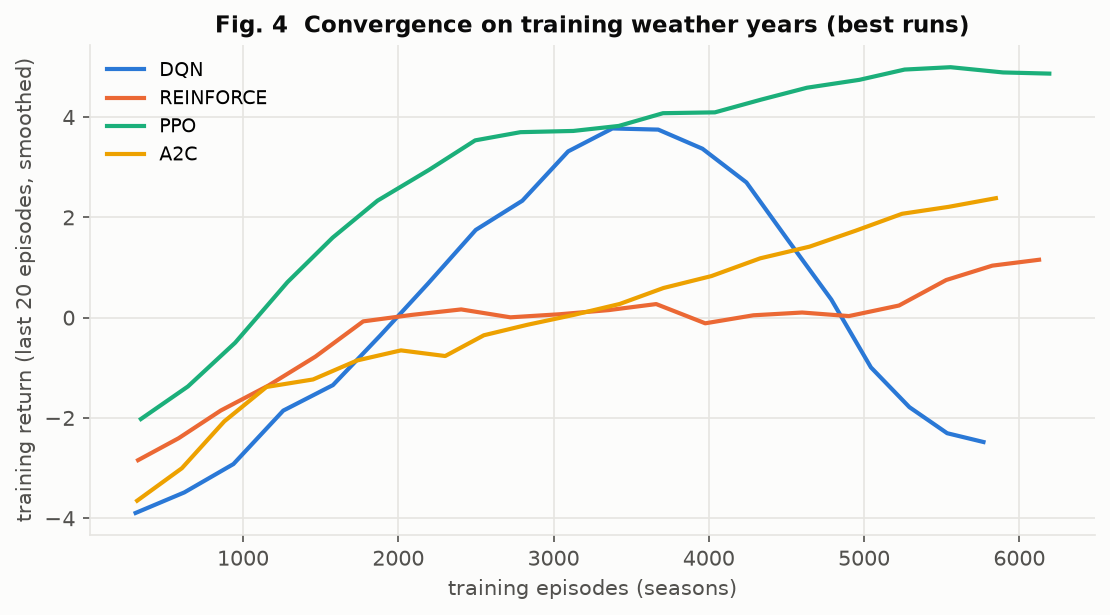
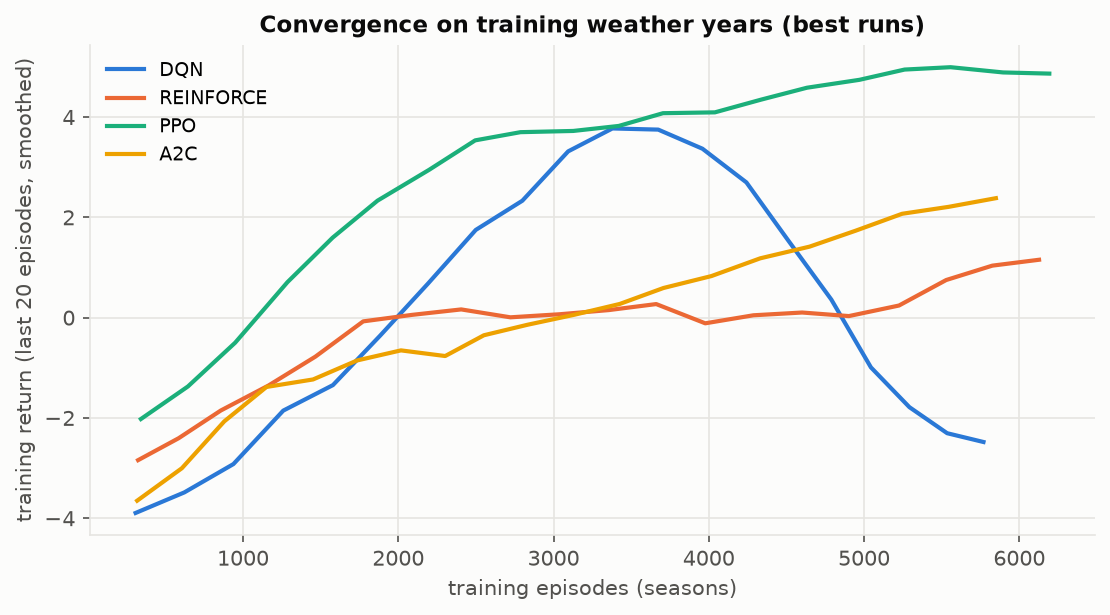
Remove figure-number prefixes from plot titles for the report

Changed region(s): [[0.1838, 0.0, 0.8883, 0.0618]]

diff --git a/analysis/plots.py b/analysis/plots.py
@@ -108,7 +108,7 @@ def fig_comparative():
             ax.axhline(v, color=MUTED, ls=ls, lw=1.2)
             ax.text(ax.get_xlim()[0], v, f" {name.replace('_', ' ')}", color=INK2, fontsize=8, va="bottom")
     ax.set(xlabel="training frames (thousands)", ylabel="validation return (greedy, 20 unseen seasons)",
-           title="Fig. 1  Validation return during training (best run per algorithm)")
+           title="Validation return during training (best run per algorithm)")
     ax.legend(loc="lower right", fontsize=8)
     ax.text(0.99, 0.30, "●  checkpoint kept (best validation)\nbaselines: dashed/dotted, test seasons",
             transform=ax.transAxes, ha="right", fontsize=8, color=INK2)
@@ -135,7 +135,7 @@ def fig_dqn_loss():
     a1.set(xlabel="frames (thousands)", ylabel="mean TD loss", title="DQN objective (TD loss)", yscale="log")
     a2.set(xlabel="frames (thousands)", ylabel="mean max-Q of sampled batch (log)", title="DQN value estimates", yscale="log")
     a1.legend(fontsize=8)
-    fig.suptitle("Fig. 2  DQN loss and Q-values across all 10 runs (grey) - best run highlighted", fontsize=10, color=INK)
+    fig.suptitle("DQN loss and Q-values across all 10 runs (grey) - best run highlighted", fontsize=10, color=INK)
     save(fig, "fig2_dqn_loss.png")
 
 
@@ -154,7 +154,7 @@ def fig_entropy():
         ax.set(title=NAMES[a], xlabel="frames (thousands)")
         ax.legend(fontsize=8, loc="lower left")
     axes[0].set_ylabel("policy entropy (nats)")
-    fig.suptitle("Fig. 3  Policy entropy during training - all runs (grey), best highlighted", fontsize=10, color=INK)
+    fig.suptitle("Policy entropy during training - all runs (grey), best highlighted", fontsize=10, color=INK)
     save(fig, "fig3_pg_entropy.png")
 
 
@@ -167,7 +167,7 @@ def fig_convergence():
         r = runs(a)[b]
         ax.plot(col(r, "episodes"), smooth(col(r, "train_return"), 5), color=COLORS[a], label=NAMES[a])
     ax.set(xlabel="training episodes (seasons)", ylabel="training return (last 20 episodes, smoothed)",
-           title="Fig. 4  Convergence on training weather years (best runs)")
+           title="Convergence on training weather years (best runs)")
     ax.legend(fontsize=9)
     save(fig, "fig4_convergence.png")
 
@@ -196,7 +196,7 @@ def fig_generalization():
               loc="lower left", fontsize=8)
     ax.set_xticks(x, [NAMES.get(p, p.replace("_", "\n")) for p in pols], fontsize=9)
     ax.set(ylabel="test return (mean ± sd)\n50 episodes over 9 real seasons",
-           title="Fig. 5  Generalisation to unseen weather years (test set)")
+           title="Generalisation to unseen real seasons: normal vs drought")
     save(fig, "fig5_generalization.png")
 
 
@@ -216,7 +216,7 @@ def fig_sweeps():
         ax.invert_yaxis()
         ax.axvline(0, color=INK2, lw=0.8)
         ax.set(title=NAMES[a], xlabel="test return (best-val checkpoint)")
-    fig.suptitle("Fig. 6  Hyperparameter sweeps - test return of each run (run selected on validation highlighted)", fontsize=10, color=INK)
+    fig.suptitle("Hyperparameter sweeps - test return of each run (run selected on validation highlighted)", fontsize=10, color=INK)
     save(fig, "fig6_sweeps.png")
 
 
